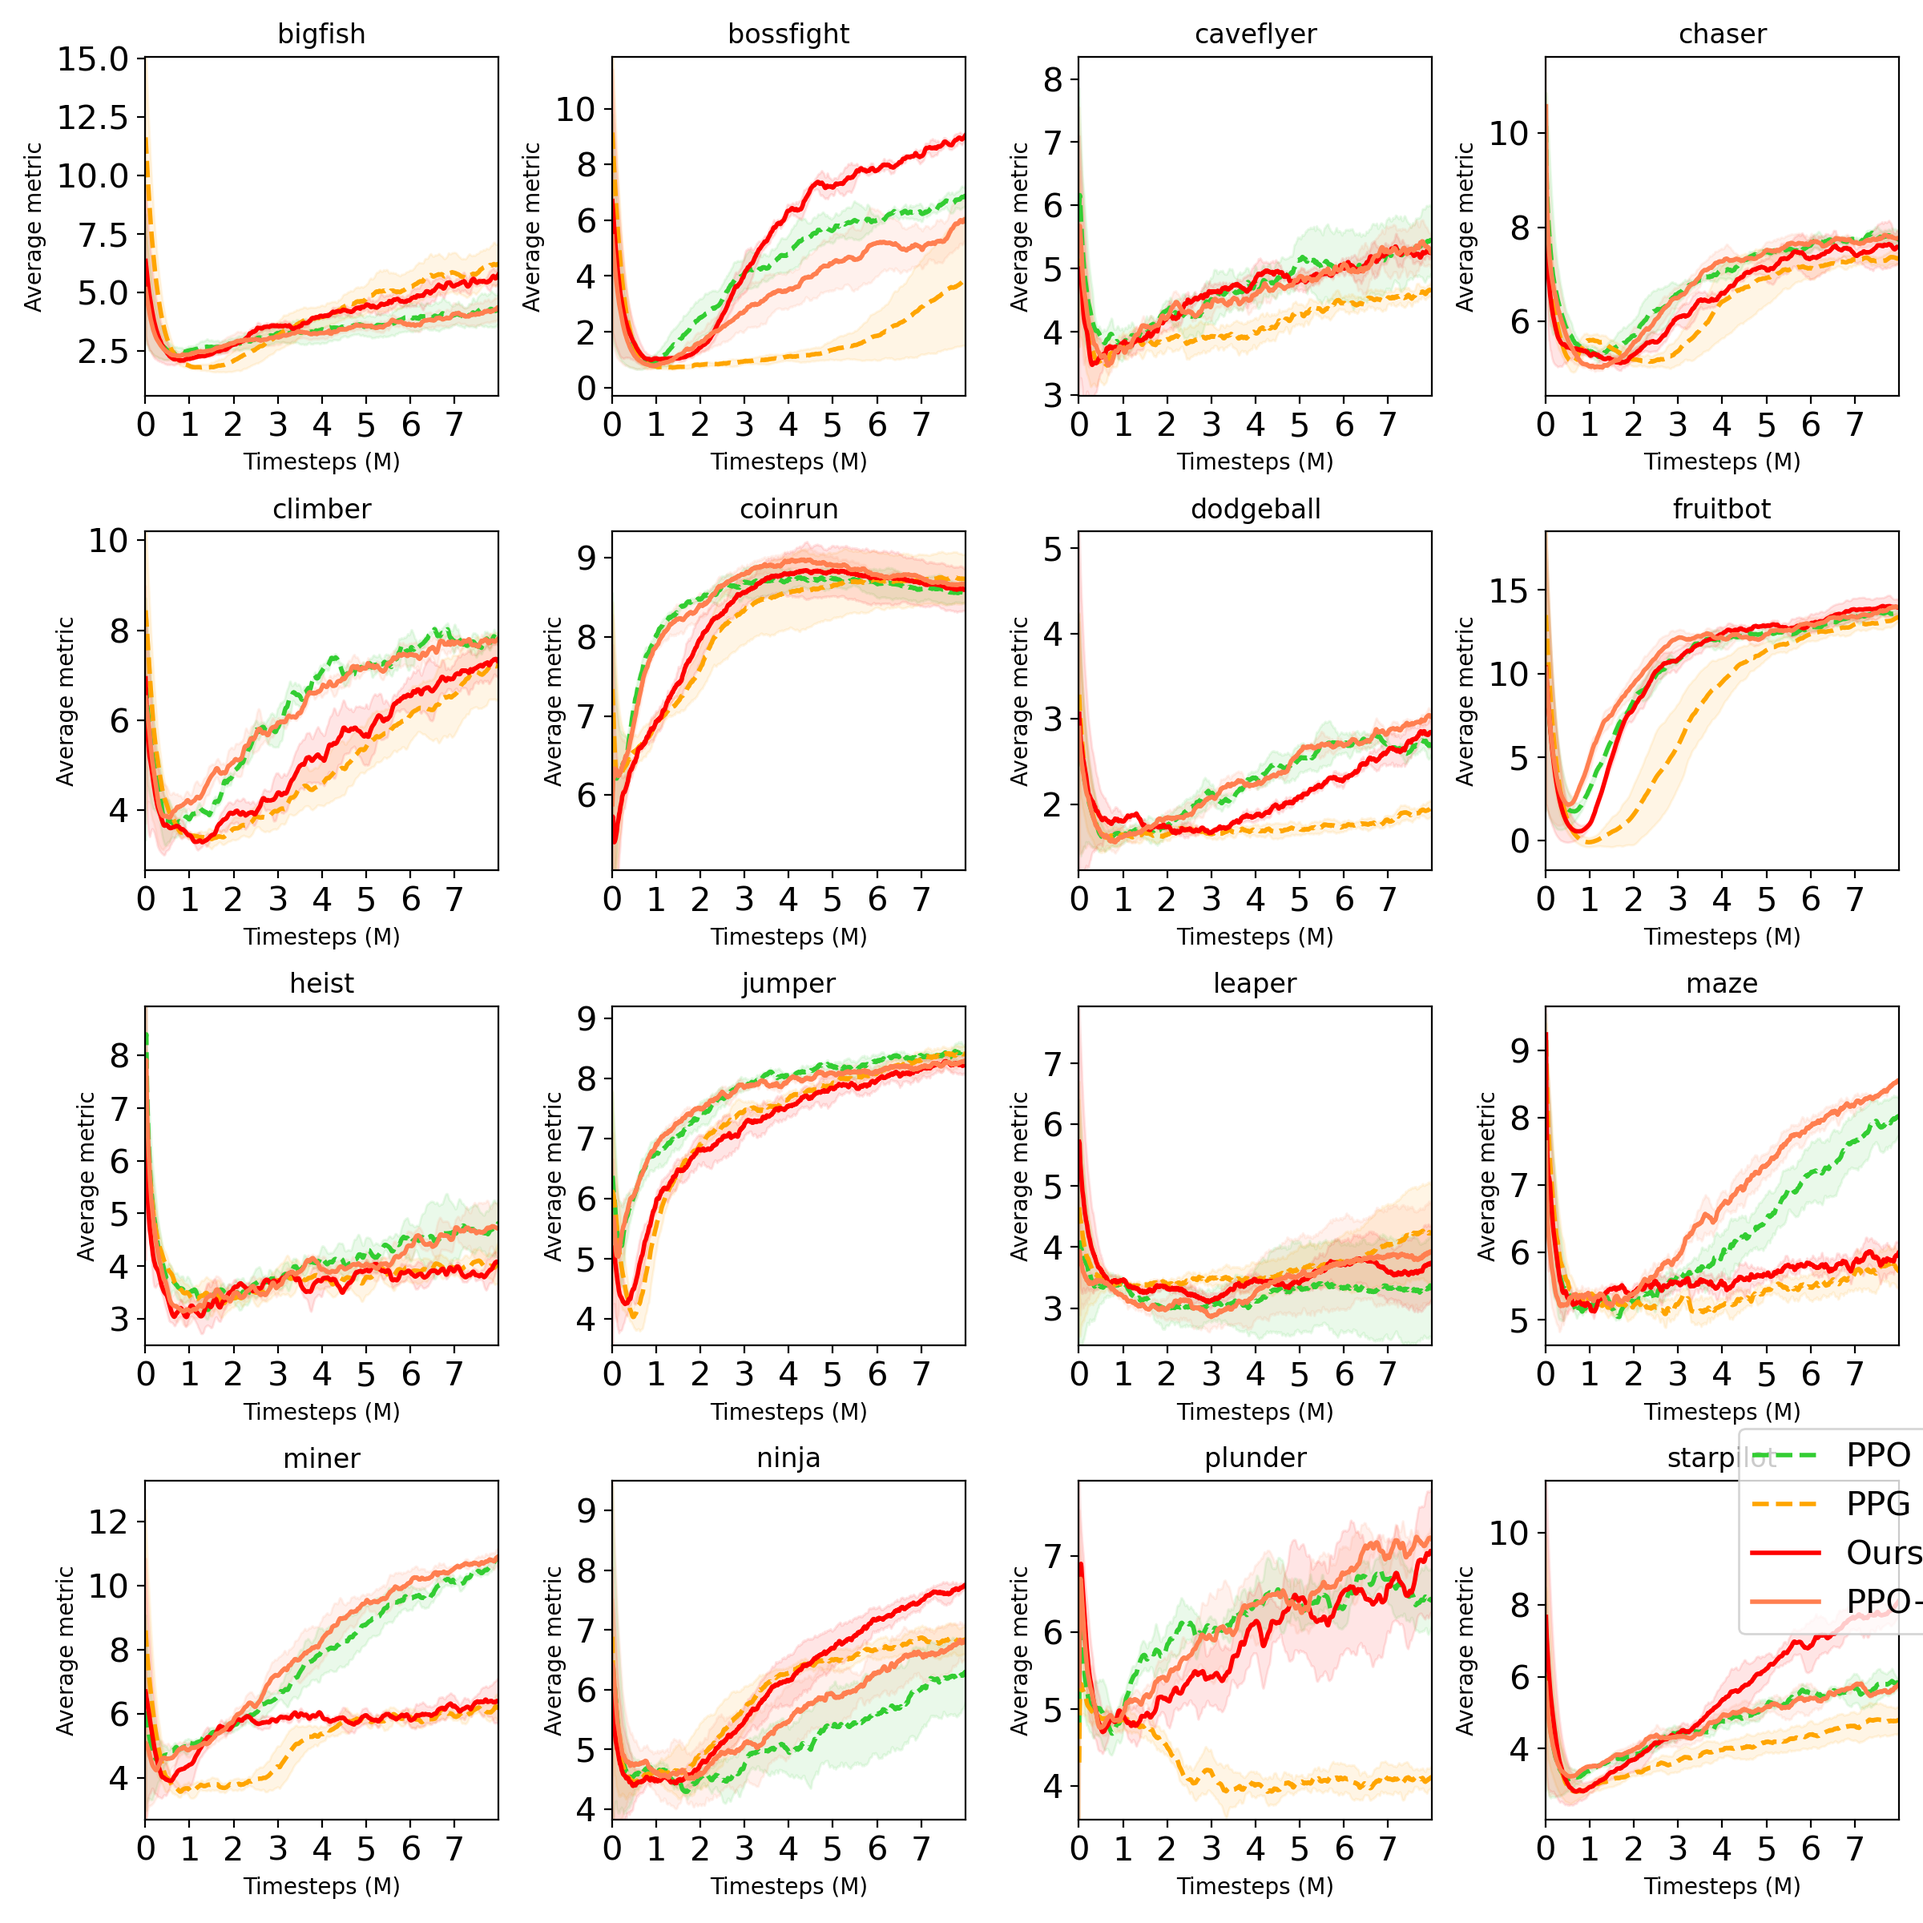
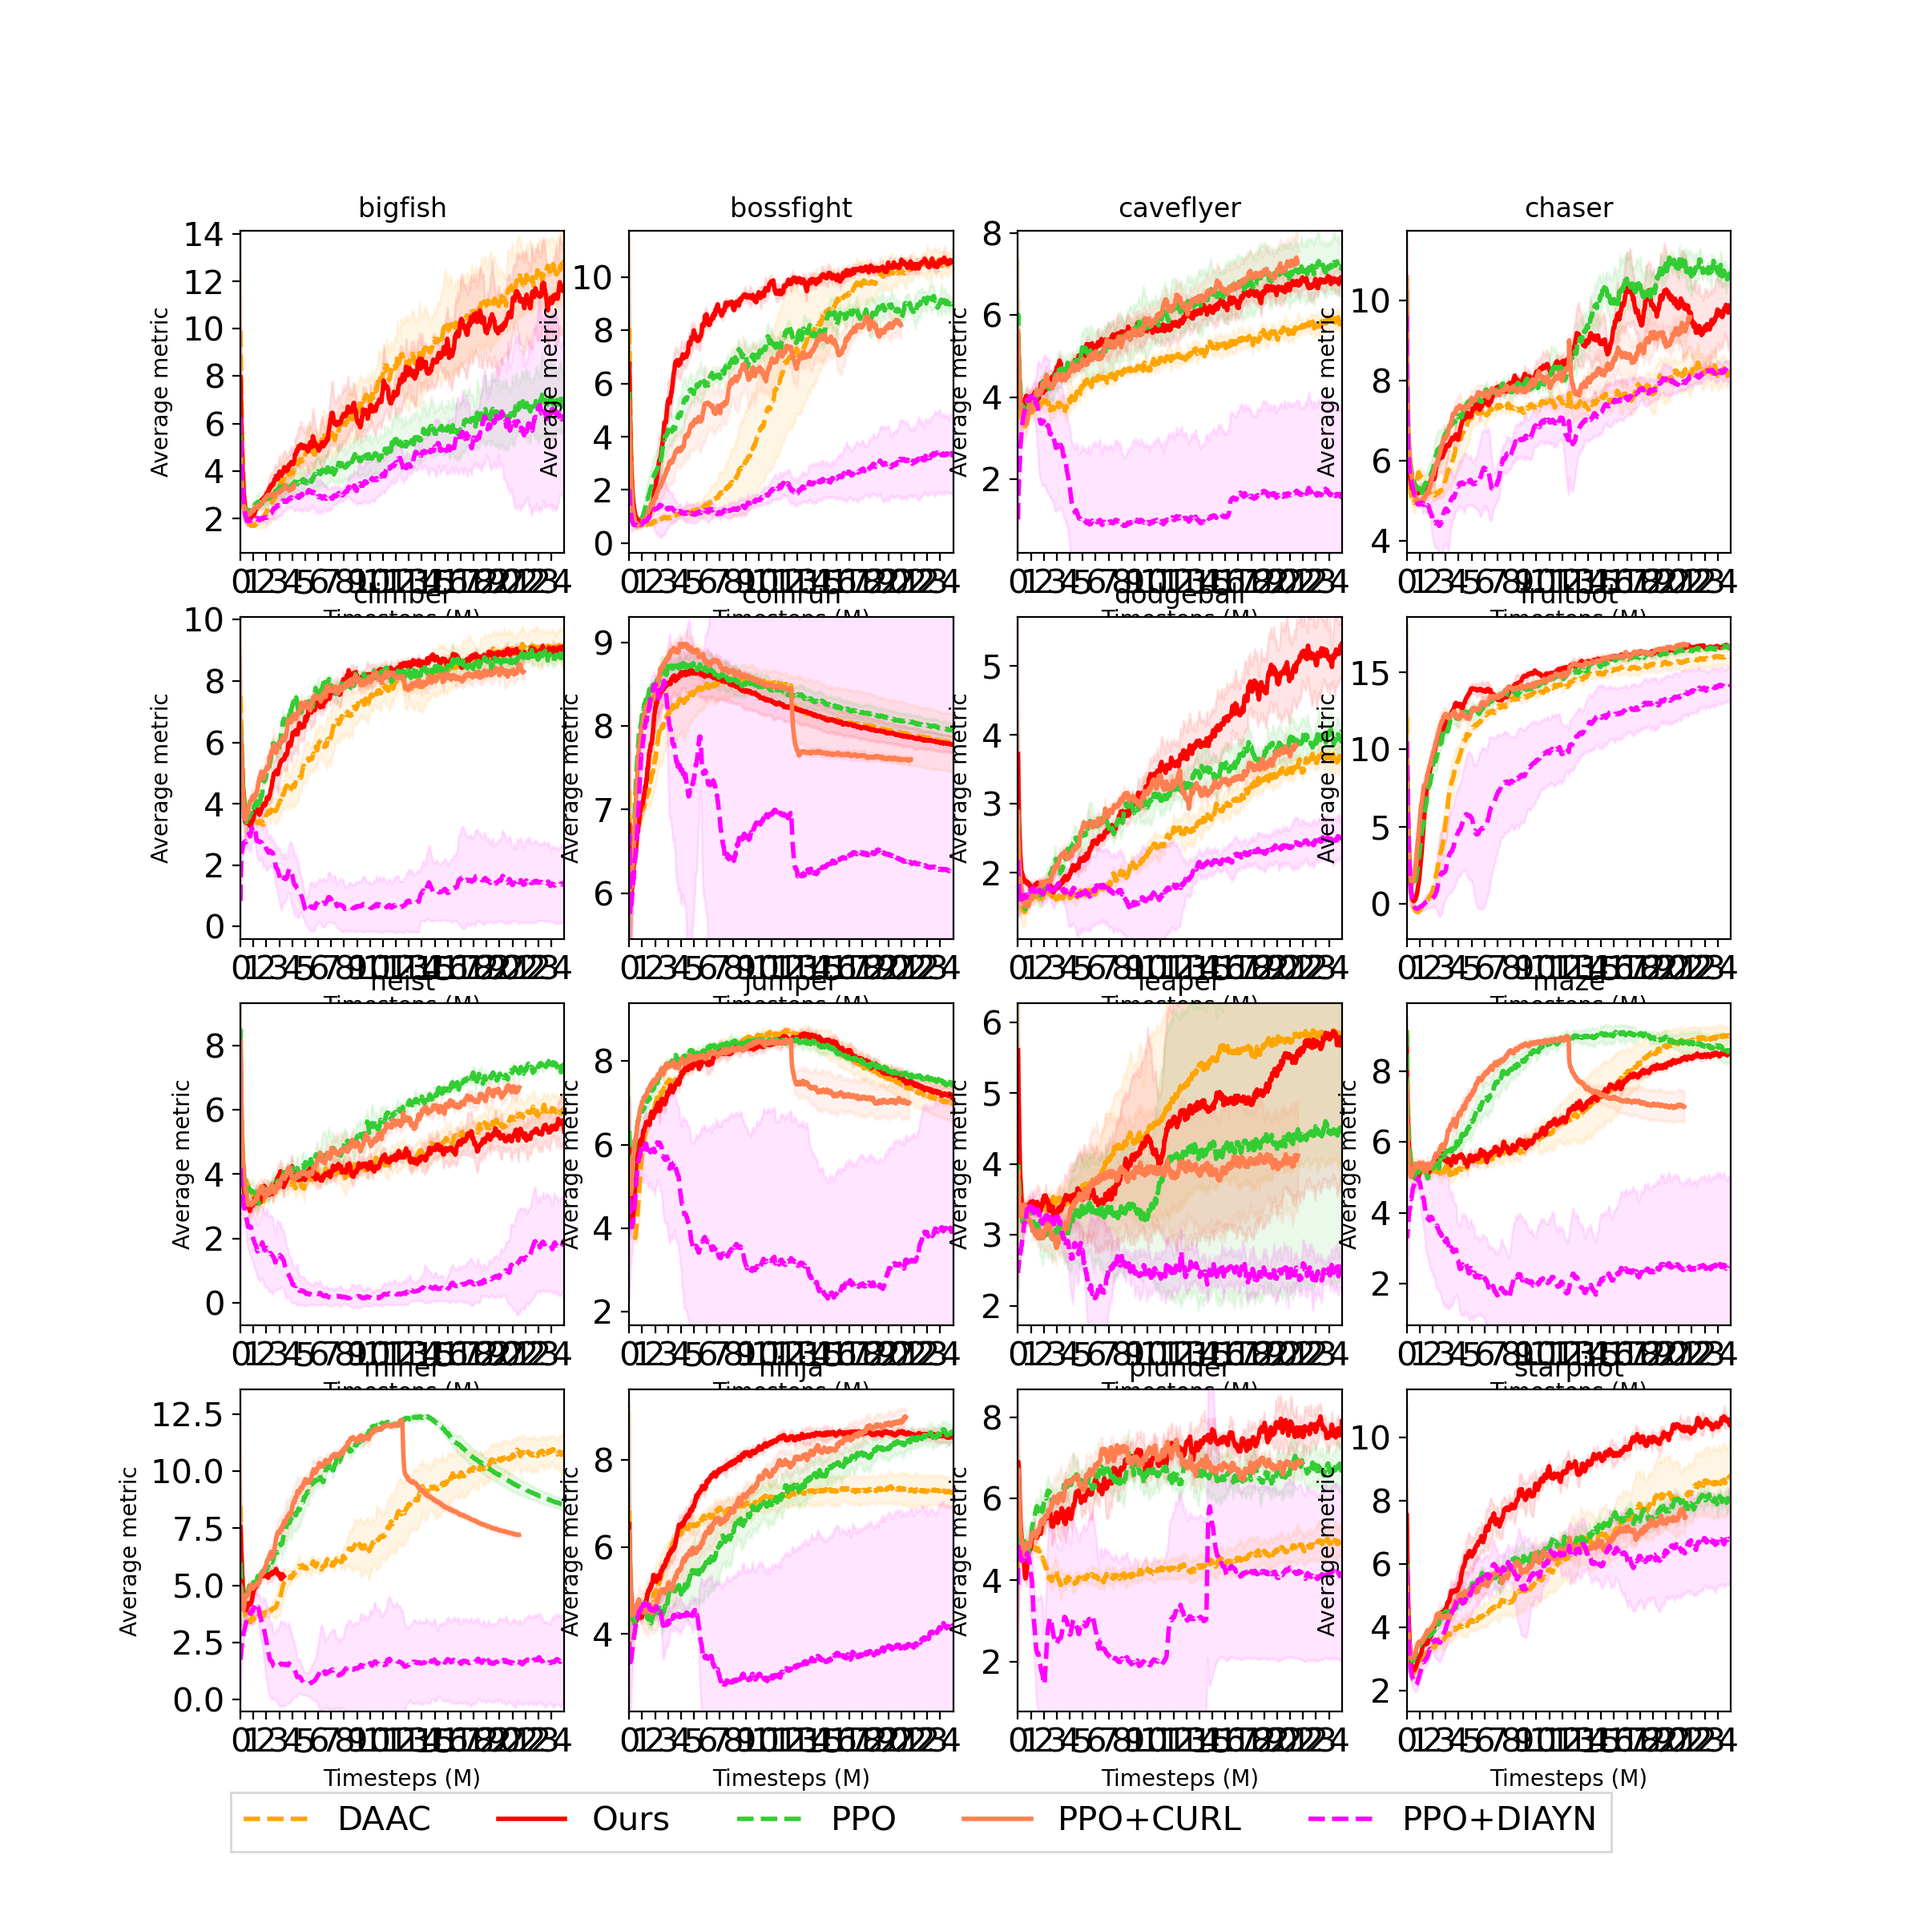
last revision before partial revert to Apr 4 commit

diff --git a/coinrun/coinrun/wandb_scripts/B__main_results.py b/coinrun/coinrun/wandb_scripts/B__main_results.py
@@ -11,10 +11,11 @@ import glob
 
 from download_wandb_data import load_WandB_csvs
 
-AGENTS = ["ppo_goal_bogdan","ppo","ppo_curl","ppg",'ppo_diayn']
-CLEAN_NAMES_AGENTS = ['Ours',"PPO","PPO+CURL","DAAC",'PPO+DIAYN']
+AGENTS = ["ppo_goal","ppo",'ppo_diayn',"ppo_curl","ppg"]
+CLEAN_NAMES_AGENTS = ['Ours',"PPO",'PPO+DIAYN',"PPO+CURL","DAAC"]
 
-selected_run_ids = {'ppo_goal_bogdan':'(.*clean16envs.*)',
+selected_run_ids = {    'ppo_goal_bogdan':'(.*clean16envs.*)',
+                        'ppo_goal':'(.*sinkhornMYOW.*)',
                         'ppo':'.*',
                         'ppo_diayn':'.*',
                         'ppg':'.*',
@@ -35,7 +36,7 @@ print('#######################')
 metrics = ['eprew','eprew_eval','silhouette_score']
 
 X_LEFT = 0
-X_RIGHT = 25e6
+X_RIGHT = 8e6
 
 rp = [-1029.86559098,  2344.5778132 , -1033.38786418,  -487.3693808 ,
          298.50245209,   167.25393272]
@@ -59,31 +60,30 @@ def gradient(x, rfactors, gfactors, bfactors):
     return r, g, b
 
 
-def set_run_attributes(sub_df,agent):
+def set_run_attributes(agent):
     
     linewidth = 2
     linestyle = '-'
     do_not_plot = False
     marker = None
     label = agent
-    if label == 'ppo_goal' or label =='ppo_goal_bogdan':
+    if label == 'Ours':
         col = 'red'
-    elif label == 'ppo':
+    elif label == 'PPO':
         col = 'limegreen'
         linestyle = '--'
-    elif label == 'ppo_diayn':
+    elif label == 'PPO+DIAYN':
         col = 'fuchsia'
         linestyle = '--'
-    elif label == 'ppg':
+    elif label == 'DAAC':
         col = 'orange'
         linestyle = '--'
-    elif label == 'ppo_curl':
+    elif label == 'PPO+CURL':
         col = 'coral'
         linestyle = '-'
     
 
-    label = agent2label[label]
-    
+    # label = agent2label[label]
     return label, col, linestyle, linewidth, marker
 
 xlim = (0,25e6,5e6)
@@ -93,7 +93,7 @@ table_eval = r"""
 \centering
 \caption{Average eval returns collected after 25M of training frames, $\pm$ one standard deviation.}
 \resizebox{\linewidth}{!}{%
-\begin{tabular}{l||l|ll}
+\begin{tabular}{l||l|llll}
 \toprule
 """
 table_train = r"""
@@ -101,7 +101,7 @@ table_train = r"""
 \centering
 \caption{Average train returns collected after 25M of training frames, $\pm$ one standard deviation.}
 \resizebox{\linewidth}{!}{%
-\begin{tabular}{l||l|ll}
+\begin{tabular}{l||l|llll}
 \toprule
 """
 table_eval += "Env & " + ' & '.join(CLEAN_NAMES_AGENTS) +'\\\\ \n'
@@ -110,7 +110,7 @@ reported_scores_eval = np.zeros((16,len(CLEAN_NAMES_AGENTS)))
 table_train += "Env & " + ' & '.join(CLEAN_NAMES_AGENTS) +'\\\\ \n'
 reported_scores_train = np.zeros((16,len(CLEAN_NAMES_AGENTS)))
 
-metrics = ['eprew_eval'] # ,'eprew'
+metrics = ['eprew_eval','eprew']
 
 for metric in metrics:
     games_list = sorted(df['environment'].unique())
@@ -143,15 +143,25 @@ for metric in metrics:
         for agent,group_df in game_df.groupby('agent'):
             # agent = group_df['agent'].unique().item()
             print(env_name,agent)
-            group_df[metric] = group_df[metric].ewm(30).mean()
-            smooth_df_mu = group_df.groupby('custom_step').apply(np.mean)
-            smooth_df_std = group_df.groupby('custom_step').apply(np.std)
-
-            label, col, linestyle, linewidth, marker = set_run_attributes(smooth_df_mu,agent)
+            group_df[metric] = group_df[metric].ewm(20).mean()
             
-            x = smooth_df_mu.index.to_numpy()
-            mu = smooth_df_mu[metric].to_numpy()
-            std = smooth_df_std[metric].to_numpy()
+            smallest_t =  group_df.groupby('UID').apply(len).min()
+            acc = np.zeros((len(group_df['UID'].unique()),smallest_t))
+            for i,seed in enumerate(group_df['UID'].unique()):
+                seed_df=group_df[group_df['UID']==seed].iloc[:smallest_t].reset_index()
+                x = seed_df['custom_step'].to_numpy()
+                acc[i] = seed_df[metric].to_numpy()
+
+            mu = acc.mean(0)
+            std = acc.std(0)
+            # smooth_df_mu = group_df.groupby('custom_step').apply(np.mean)
+            # smooth_df_std = group_df.groupby('custom_step').apply(np.std)
+
+            label, col, linestyle, linewidth, marker = set_run_attributes(agent)
+            
+            # x = smooth_df_mu.index.to_numpy()
+            # mu = smooth_df_mu[metric].to_numpy()
+            # std = smooth_df_std[metric].to_numpy()
             ax.plot(x,mu,color=col,label=label,linestyle=linestyle,linewidth=2)
             ax.fill_between(x, mu-std, mu+std, alpha=0.1, color=col)
             max_y = max(max_y,(mu).max())
@@ -208,8 +218,9 @@ for metric in metrics:
             table_train += row_str_train
 
 
+    
+    plt.legend(handles,labels, loc='upper center', bbox_to_anchor=(-1.5, -0.2),fancybox=False, shadow=False,prop={'size': 15},ncol=len(handles)) # new_handles, new_labels,
     plt.tight_layout()
-    plt.legend(handles,labels, loc='lower left', bbox_to_anchor=(0.5,0.5),prop={'size': 15}) # new_handles, new_labels,
     
     plt.savefig(os.path.join('..','wandb_plots','B__main_results_'+metric+'.png'),dpi=200)
 
@@ -238,4 +249,4 @@ table_train += r"""
 """
 print(table_eval)
 # print(table_train)
-import ipdb;ipdb.set_trace()
+# import ipdb;ipdb.set_trace()

diff --git a/coinrun/coinrun/wandb_scripts/download_wandb_data.py b/coinrun/coinrun/wandb_scripts/download_wandb_data.py
@@ -46,10 +46,20 @@ def load_WandB_csvs(files,params_to_load,selected_run_ids,AGENTS,agent2label):
         except:
             print('Skipping malformated CSV')
             continue
-        run_id, agent = fh.split('/')[2].split('___')
-        agent = agent.split('.')[0]
-        group = '__'.join(run_id.split('__')[:-1])
-
+        with open(fh[:-4]+'.json','r') as json_fh:
+            params = json.load(json_fh)
+            for p in params_to_load:
+                if p not in params:
+                    params[p] = {}
+                    params[p]['value'] = 1
+                run_df[p] = params[p]['value']
+                
+        run_id_fn, agent_fn = fh.split('/')[2].split('___')
+        run_id = params['run_id']['value']
+        agent = params['agent']['value']
+        agent_fn = agent.split('.')[0]
+        group = '__'.join(run_id_fn.split('__')[:-1])
+        
         if agent not in AGENTS:
             continue
         
@@ -62,14 +72,6 @@ def load_WandB_csvs(files,params_to_load,selected_run_ids,AGENTS,agent2label):
         run_df['linestyle'] = linestyle
         run_df['UID'] = np.random.randint(1000000)
         run_df['group'] = group
-
-        with open(fh[:-4]+'.json','r') as json_fh:
-            params = json.load(json_fh)
-            for p in params_to_load:
-                if p not in params:
-                    params[p] = {}
-                    params[p]['value'] = 1
-                run_df[p] = params[p]['value']
                 
         df.append(run_df)
     df=pd.concat(df)
@@ -79,7 +81,7 @@ if __name__ == "__main__":
 
     api = wandb.Api()
 
-    AGENTS = ["ppo_goal_bogdan","ppo","ppo_diayn","ppg",'ppo_curl']
+    AGENTS = ["ppo_goal_bogdan",'ppo_goal',"ppo","ppo_diayn","ppg",'ppo_curl']
 
     METRICS = ['custom_step','eprew','eprew_eval','silhouette_score']
 

diff --git a/coinrun/coinrun/ppo2_goal_bogdan.py b/coinrun/coinrun/ppo2_goal_bogdan.py
@@ -394,8 +394,8 @@ class Model(object):
         else:
             if Config.SYNC_FROM_ROOT:
                 trainer = MpiAdamOptimizer(MPI.COMM_WORLD, learning_rate=LR, epsilon=1e-5)
-                trainer_aux = MpiAdamOptimizer(MPI.COMM_WORLD, learning_rate=3e-3, epsilon=1e-5)
-                trainer_myow = MpiAdamOptimizer(MPI.COMM_WORLD, learning_rate=3e-3, epsilon=1e-5)
+                trainer_aux = MpiAdamOptimizer(MPI.COMM_WORLD, learning_rate=LR, epsilon=1e-5)
+                trainer_myow = MpiAdamOptimizer(MPI.COMM_WORLD, learning_rate=LR, epsilon=1e-5)
             else:
                 trainer = tf.compat.v1.train.AdamOptimizer(learning_rate=LR, epsilon=1e-5)
 
